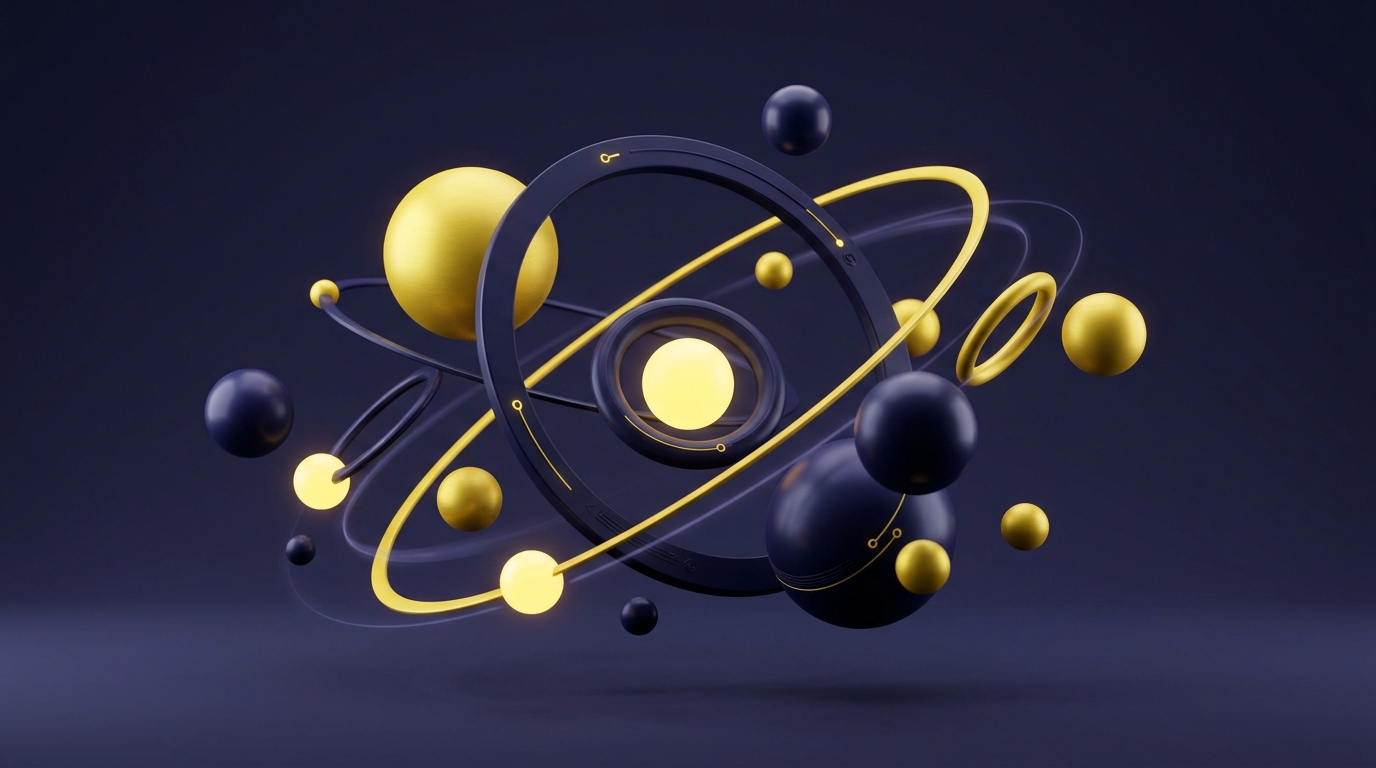
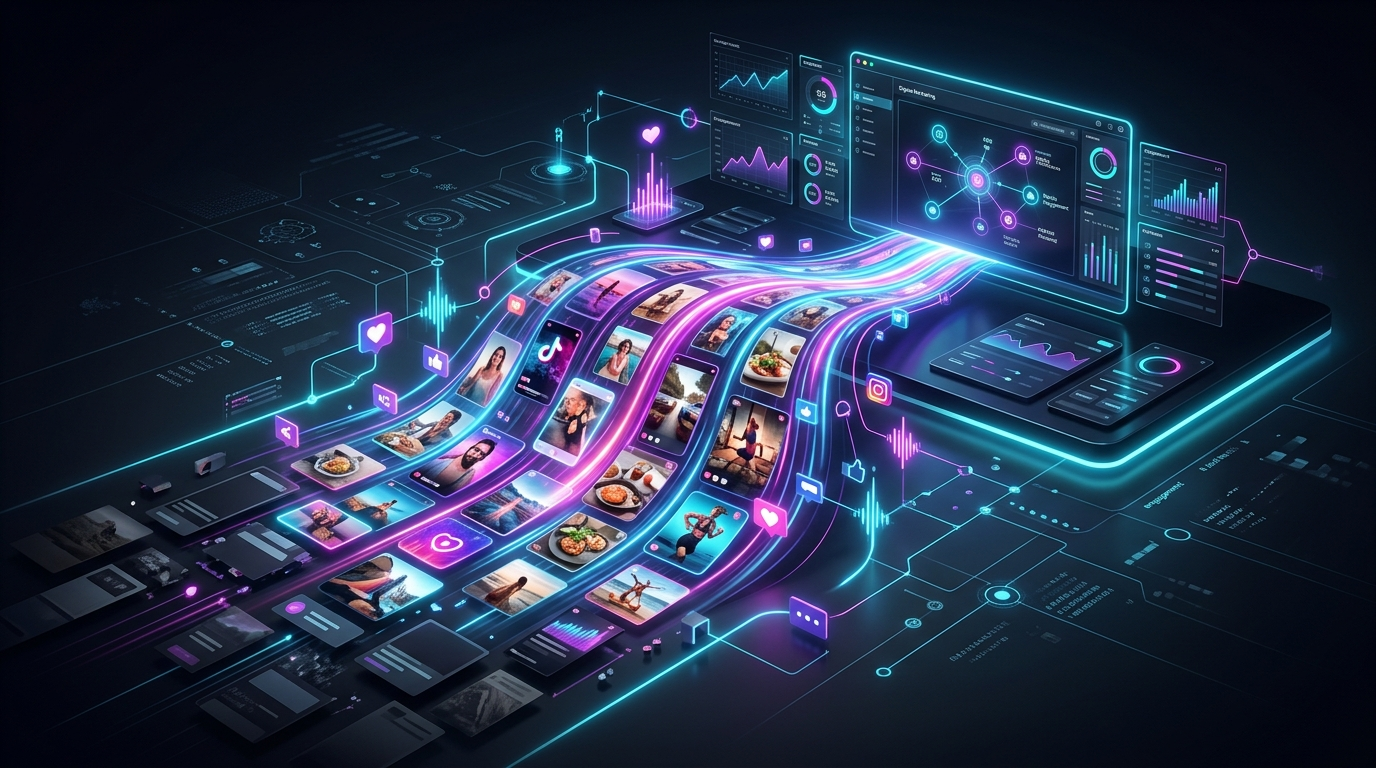
chore: update cover images for the last two blog posts

diff --git a/src/data/posts.ts b/src/data/posts.ts
@@ -283,7 +283,7 @@ export const posts: BlogPost[] = [
   },
   {
     slug: 'diseno-invisible-ux-marketing-contenidos',
-    coverImage: '/blog/post-3.jpg',
+    coverImage: '/blog/post-6.jpg',
     author: { 
       name: 'Isabella C.', 
       avatar: 'https://api.dicebear.com/7.x/notionists/svg?seed=Jocelyn', 
